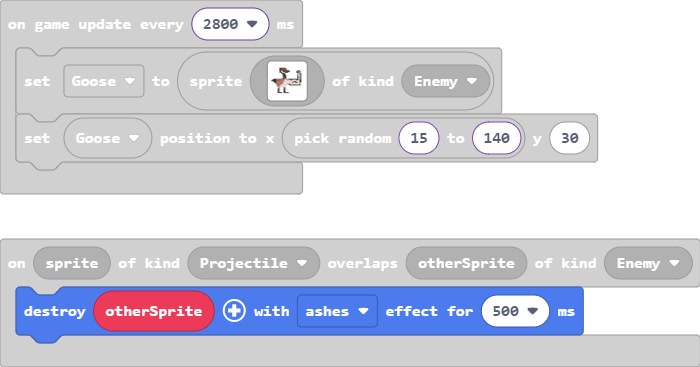
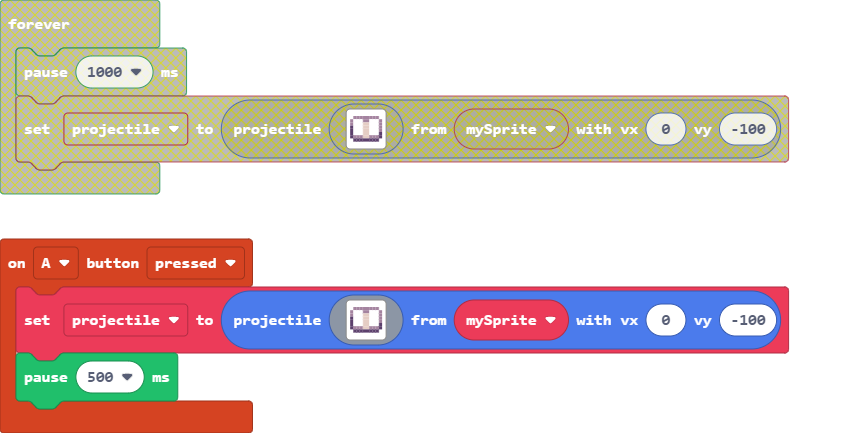
Shooting Projectiles

diff --git a/main.ts b/main.ts
@@ -1,8 +1,22 @@
+controller.A.onEvent(ControllerButtonEvent.Pressed, function () {
+    projectile = sprites.createProjectileFromSprite(img`
+        . b b b b b b b b . 
+        b 1 1 1 b b 1 1 1 b 
+        b 1 1 1 d d 1 1 1 b 
+        c 1 1 1 d d 1 1 1 b 
+        c 1 1 1 d d 1 1 1 b 
+        c 1 1 1 d d 1 1 1 c 
+        c b b b d d b b b c 
+        . c c c c c c c c . 
+        `, mySprite, 0, -100)
+    pause(500)
+})
 sprites.onOverlap(SpriteKind.Projectile, SpriteKind.Enemy, function (sprite, otherSprite) {
     otherSprite.destroy()
 })
 let Goose: Sprite = null
 let projectile: Sprite = null
+let mySprite: Sprite = null
 scene.setBackgroundImage(img`
     7777777777777777777777777777777777777777777777777777777777777777777777777777777777777777777777777777777777777777777777777777777777777777777777777777777777777777
     7777777777777777777777777777777777777777777777777777777777777777777777777777777777777777777777777777777777777777777777777777777777777777777777777777777777777777
@@ -125,7 +139,7 @@ scene.setBackgroundImage(img`
     7777777777777777777777777777777777777777777777777777777777777777777777777777777777777777777777777777777777777777777777777777777777777777777777777777777777777777
     7777777777777777777777777777777777777777777777777777777777777777777777777777777777777777777777777777777777777777777777777777777777777777777777777777777777777777
     `)
-let mySprite = sprites.create(img`
+mySprite = sprites.create(img`
     . . . . f f f f . . . . . 
     . . f f c c c c f f . . . 
     . f f c c c c c c f f . . 
@@ -147,19 +161,6 @@ mySprite.setFlag(SpriteFlag.StayInScreen, true)
 mySprite.setPosition(76, 110)
 info.setLife(3)
 controller.moveSprite(mySprite, 210, 0)
-forever(function () {
-    pause(1000)
-    projectile = sprites.createProjectileFromSprite(img`
-        . b b b b b b b b . 
-        b 1 1 1 b b 1 1 1 b 
-        b 1 1 1 d d 1 1 1 b 
-        c 1 1 1 d d 1 1 1 b 
-        c 1 1 1 d d 1 1 1 b 
-        c 1 1 1 d d 1 1 1 c 
-        c b b b d d b b b c 
-        . c c c c c c c c . 
-        `, mySprite, 0, -100)
-})
 game.onUpdateInterval(2800, function () {
     Goose = sprites.create(img`
         ..........1111111.....................
